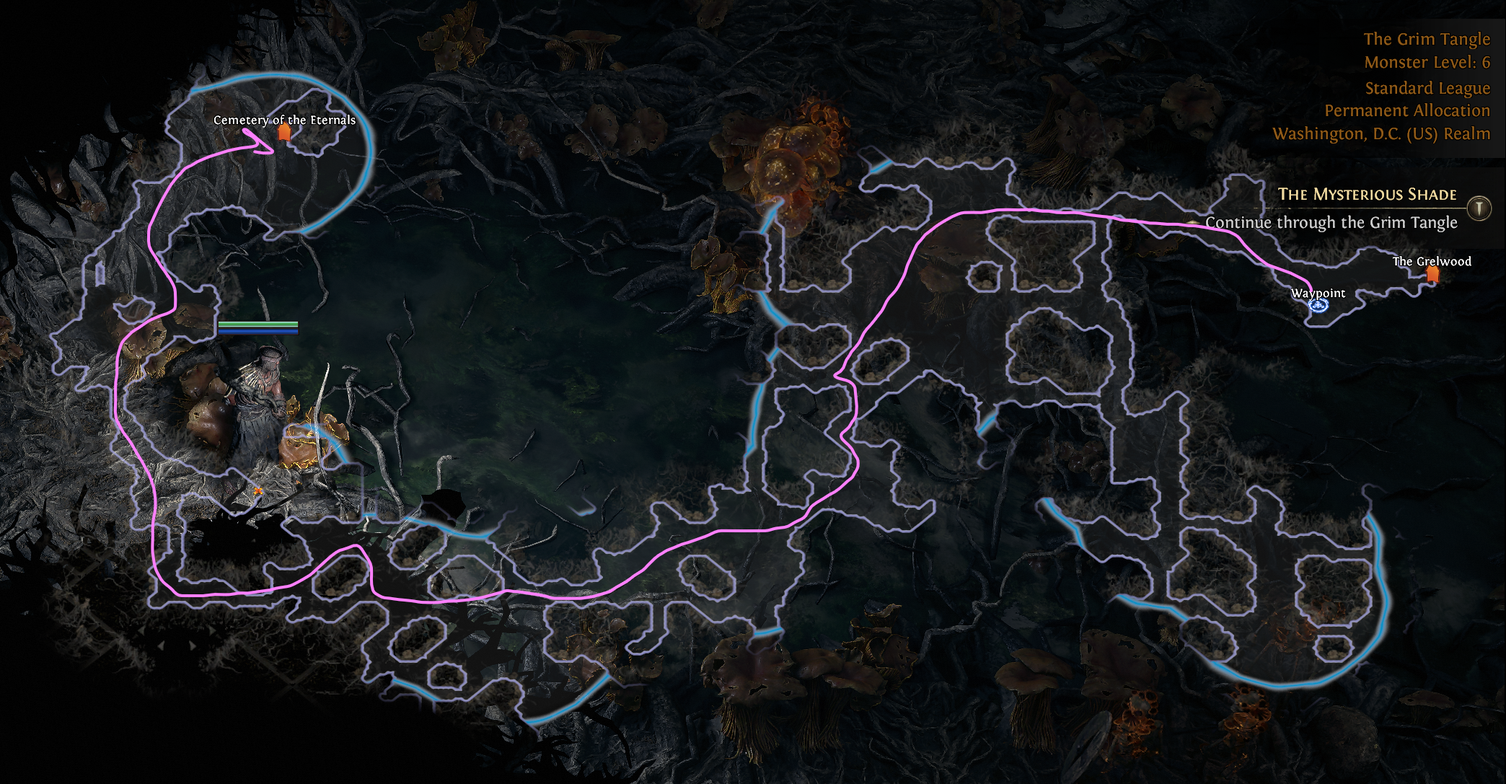
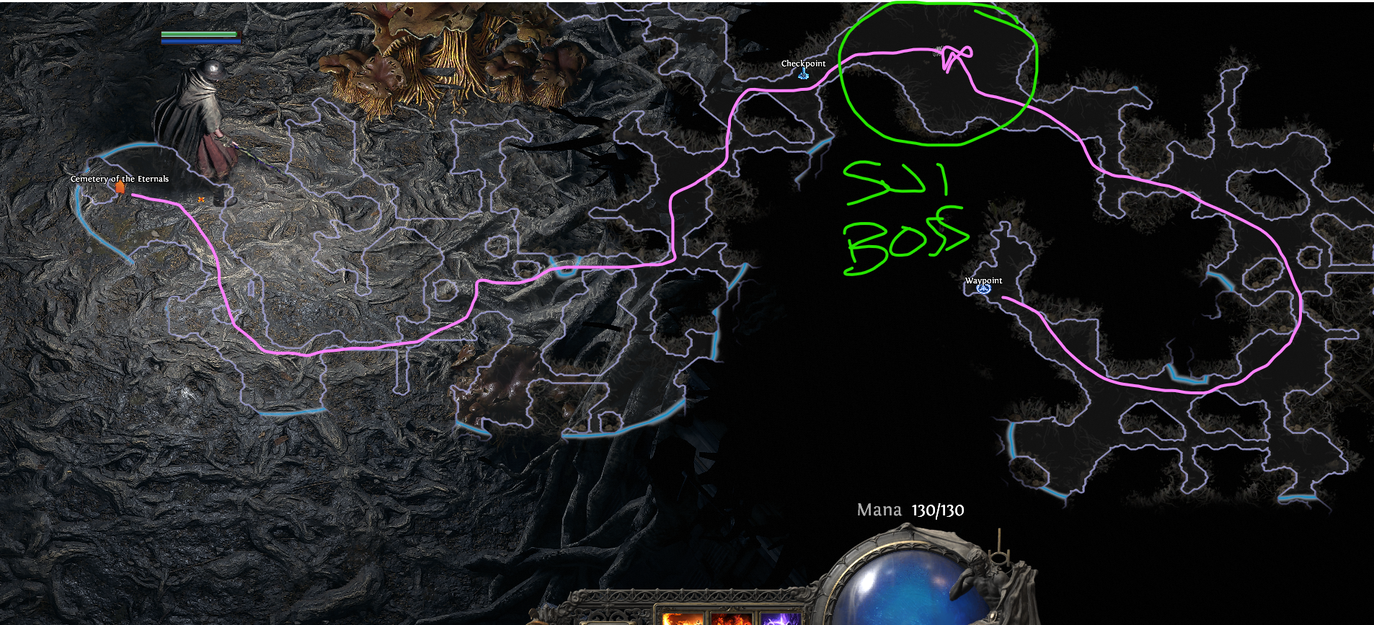
Tested a few additional Act I theories, will need to do more to confirm any pattern with spawns. Did manage to add a few missed details and knock out some of the todo items.

diff --git a/Act1/README.md b/Act1/README.md
@@ -1,10 +1,20 @@
 # Act 1 - Route
 
+## The Riverbank
+1. Let the Journey Begin! 
+2. Talk to the NPC for a quest, you'll get your first Main Hand (MH) here. 
+3. Begin running east to find a large chest with either your first Skill Gem 1 (SK1) or an Off Hand (OH). 
+4. Continue running east where you should encounter your first checkpoint & second large chest which contains a SK1. You might need to search around for the chest if you've missed, either before or after the Checkpoint.
+5. Start running Northeast to find the second checkpoint and the first boss fight. Relatively easy, just dodge roll the slam & charge.
+6. Once dead, Enter Clearfell Encampment where you'll talk to Renly for another SK1. You can vendor gear from boss fight, but also **CONSTANTLY CHECK boots for movement speed with each portal to town. Helps with clearing Act I faster.**
+
+![The Riverbank Route Image](./ZoneImages/The-Riverbank.png)
+
 ## Clearfall
 1. (Optional) Route for SK1 from Mysterious Chest 
 2. Grab Waypoint next to Mud Burrow, will teleport later for SU1
 3. Slay Ice Witch for 10% Cold Resistance -- easy kill
-4. Travel north to The Grelwood
+4. Travel north to The Grelwood, entrance will be along the northern wall, run up or down until you see light
 
 ![Clearfall Route Image](./ZoneImages/Clearfall.png)
 
@@ -31,7 +41,7 @@ Layout seems to remain similar, basically always one south/bottom right, with tw
 Optional for a second SU1, relatively fast give you're level & hopefully found a few good peices for power.
 
 1. Teleport to Clearfall -- waypoint is next to Mud Burrow
-2. Run directly south as much as you can until you make it to boss room
+2. Run directly opposite the waypoint as much as you can until you make it to boss room
 3. He should die quick, once dead portal to town & hand-in for SU1
 
 ![Mud Burrow Route Image](./ZoneImages/Mud-Burrow.png)
@@ -44,8 +54,9 @@ Now that you have the relics from The Red Vale you can stab the tree of souls to
 
 ## The Grim Tangle
 1. Talk with Una to unlock and begin searching for the Cemetary of the Eternals
-    - Seemingly looking out for the yellow glowing plants seems to be an indicator of the correct direction to go (TODO: still testing)
-    - Nothing else to do here but run for exit
+    - Seemingly looking out for the yellow glowing plants seems to be an indicator of the correct direction to go (TODO: still testing, west of waypoint for 2 runs)
+2. (Optional) Kill Boss for SU1, careful of him holding hand infront of him he's going to throw cluster explosions
+3. Head for the Entrance to "Cemetary of the Eternals"
 
 ![The Grim Tangle Route Image](./ZoneImages/The-Grim-Tangle.png)
 
@@ -97,8 +108,8 @@ Important Powerboost either for Defense or Offense to give yourself +30 Spirit, 
 ![Ogham Farmlands Route Image](./ZoneImages/Ogham-Farmlands.png)
 
 ## Ogham Village
-This is where we fight the Executioner 
-1.Unlock Ogham Village Waypoint
+This is where we fight the Executioner  
+1. Unlock Ogham Village Waypoint
 2. (Optional) Run to town for the +2 Weapon Set Skill Points if you need it for a Power Spike before boss -- otherwise wait to do before Final Boss Fight.
 3. Follow North Edge of Map while running West, I've really only ever seen his Arena to the Northwest of the Waypoint (TODO: further testing required)
 4. Fight the Executioner -- seems pretty easy for a boss, just avoid the guillotine (large white AoE animation with voiceline -- "The guillotine..drops!")
@@ -150,5 +161,5 @@ This can be a rough first fight, be ready to whipe a few times. Just a few comme
     - When he stabs the ground, white patches spawn on ground, there should be a few spots where there's a clear gap to stand. Find it!
     - When he disappears (not fog phase), wait for circle to spawn on your, RUN out first, THEN dodge at the last second prior to him landing.
     - **Fog Phase**: After his first dash through, there's a 5s window between each dash. But honestly, just running in a circle, dragging the adds with you and killing them as you go seems fine. To be extra safe, just every 5s dodge roll the direction you're running. You'll almost never get hit and you shouldn't get one shot by this either, but the stun can be annoying.
-- Otherwise, pretty ez rest of the fight. Once he's dead there's a LONG dialogue with The Hooded One -- (TODO: Test if porting back to town stops this) -- before he drops loot. 
+- Otherwise, pretty ez rest of the fight. Once he's dead there's a LONG dialogue with The Hooded One ***DO NOT*** port back to town before he drops loot otherwise it take even longer to drop. 
 - Afterwards a portal to "Clearfell Encampment" opens, take it and talk to The Hooded One to port to Act II.

diff --git a/README.md b/README.md
@@ -19,3 +19,6 @@ With the launch of Path of Exile 2 I've decided to just go about this journey on
 - Made it through Huntings Grounds in Act I obtaining all the information I could. Will continue to compile routes to discern patterns with further run throughs.
 - Added remainder for Act I, including final boss fight details. Updated SP1 to be for spirit gems and SU1 for support gems. Added TODOs for the next Act I round.
 - Included the image for the Mad Wolf Arena
+
+12/13/24
+- Tested a few additional Act I theories, will need to do more to confirm any pattern with spawns. Did manage to add a few missed details and knock out some of the todo items.
